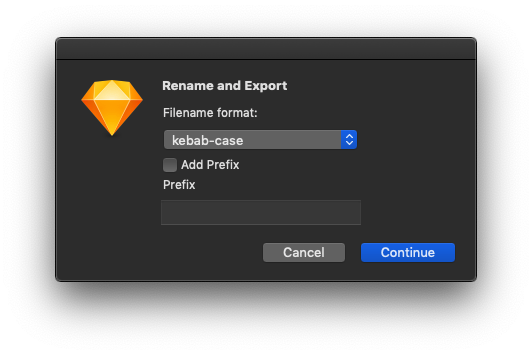
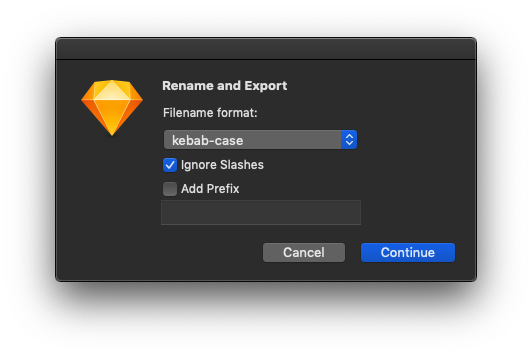
update readme with Ignore slashes

Changed region(s): [[0.3008, 0.4338, 0.5113, 0.5577]]

diff --git a/README.md b/README.md
@@ -18,6 +18,15 @@ To use, press `⌃ Ctrl` + `⇧ Shift` + `E` to open the dialog.
 
 ![dialog](assets/img-dialog.png)
 
-Choose your filename formay, optionally add a prefix, and then pick the directory to save the files.
+### Filename format
+Choose between `kebab-case`, `snake_case` or `camelCase`
+
+### Ignore slashes
+Ignores any slashes as used in symbols
+e.g. `Icon/Search` exports as `search.svg`
+
+### Add Prefix
+Text to add to the beginning of the filename
+e.g. `icon-seach.svg`
 
 ***Note: Currently only `svg` files are supported.***
